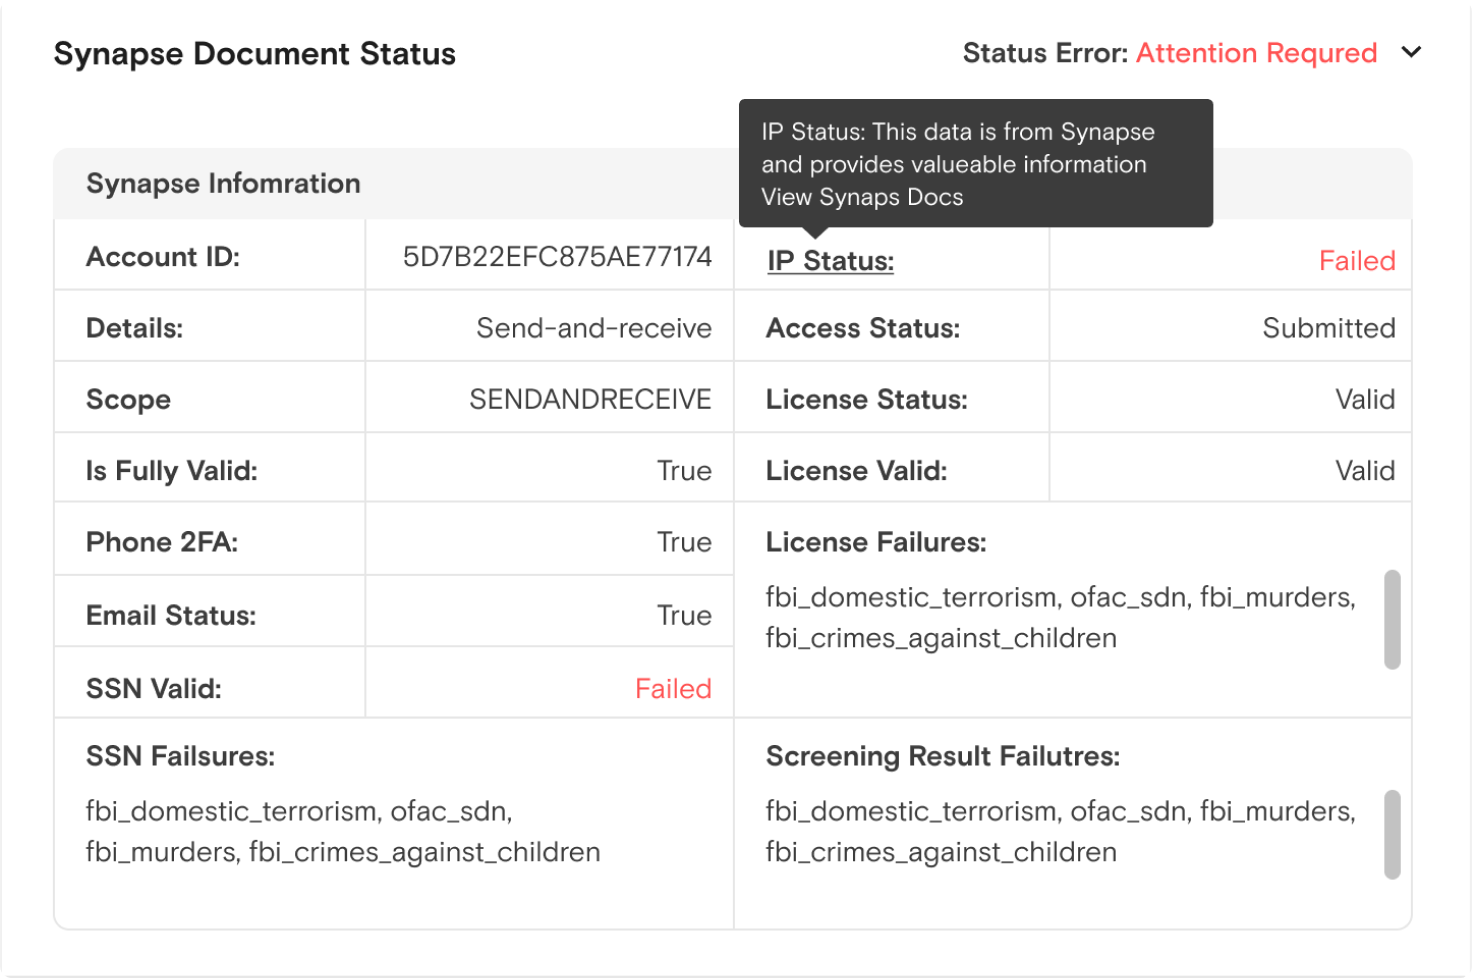
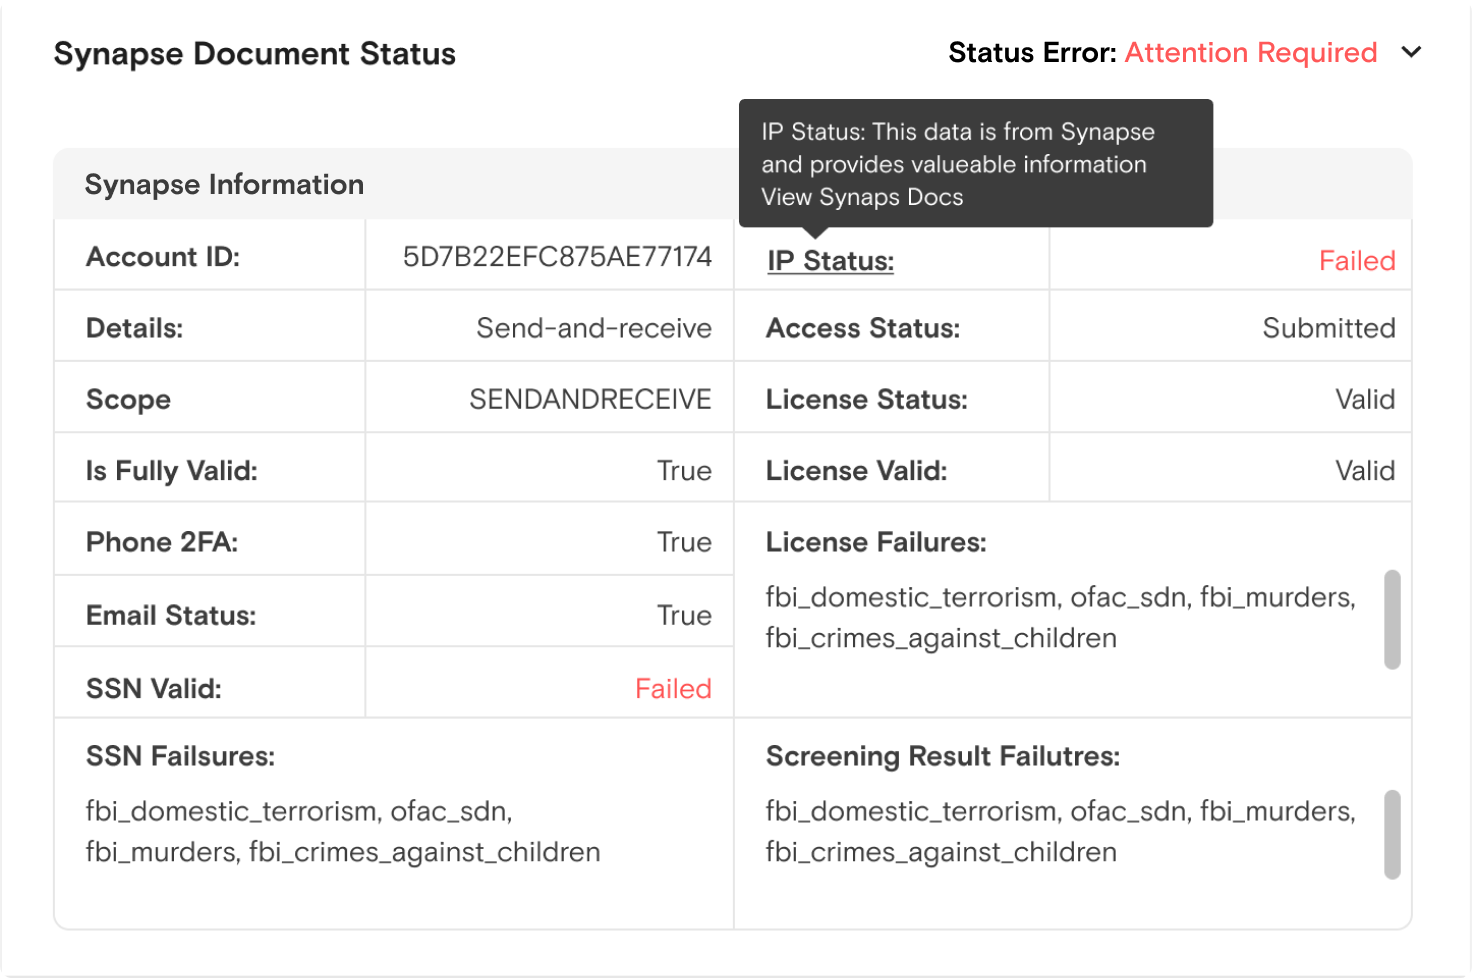
Spelling error fixes

Changed region(s): [[0.625, 0.0307, 0.9375, 0.092], [0.0625, 0.184, 0.25, 0.2147]]

diff --git a/themes/ianthedesigner-hugo/layouts/the-gents-guide-to-style/list.html b/themes/ianthedesigner-hugo/layouts/the-gents-guide-to-style/list.html
@@ -32,7 +32,7 @@
   <div class="container">
     <!-- Case Study Meta Data -->
     <div class="cs-meta-container">
-      <div class="meta-item">
+      <div class="meta-item col-xs-6 col-md-4 col-lg-12">
         <div class="label">
           Client
         </div>
@@ -41,7 +41,7 @@
         </div>
       </div>
 
-      <div class="meta-item">
+      <div class="meta-item col-xs-6 col-md-4 col-lg-12">
         <div class="label">
           Industry
         </div>
@@ -50,7 +50,7 @@
         </div>
       </div>
 
-      <div class="meta-item">
+      <div class="meta-item col-xs-6 col-md-4 col-lg-12">
         <div class="label">
           Project Type
         </div>
@@ -59,7 +59,7 @@
         </div>
       </div>
 
-      <div class="meta-item">
+      <div class="meta-item col-xs-6 col-md-4 col-lg-12">
         <div class="label">
           Responsabilities
         </div>
@@ -73,7 +73,7 @@
         </div>
       </div>
 
-      <div class="meta-item">
+      <div class="meta-item col-xs-6 col-md-4 col-lg-12">
         <div class="label">
           Deliverables
         </div>
@@ -84,7 +84,7 @@
         </div>
       </div>
 
-      <div class="meta-item">
+      <div class="meta-item col-xs-6 col-md-4 col-lg-12">
         <div class="label">
           Team
         </div>
@@ -94,7 +94,7 @@
         </div>
       </div>
 
-      <div class="meta-item mt-64">
+      <div class="meta-item mt-64 ">
         <a class="button" href="../pdf/ian-donahue_capstone-paper.pdf" target="_blank">
           Download Process
         </a>
@@ -118,7 +118,7 @@
 
           <div class="row mb-48 mt-48">
             <div class="col-md-12">
-              <img src="../images/portfolio/gents-guide/gents_guide_to_style_iMac-2.jpg" alt="">
+              <img src="../images/portfolio/gents-guide/gents_guide_to_style_iMac-2.jpg" alt="" width="100%">
             </div>
           </div>
 
@@ -190,32 +190,32 @@
 
     <div class="row">
       <div class="col-md-12 col-lg-7 col-xl-6">
-        <video width="540" height="700" controls poster="../images/portfolio/gents-guide/video/gents-video-placeholder.png">
+        <video width="100%" height="700" controls poster="../images/portfolio/gents-guide/video/gents-video-placeholder.png">
           <source src="../images/portfolio/gents-guide/video/ian-donahue-gents-guide-to-style.mp4" type="video/mp4">
             Your browser does not support the video tag.
         </video>
       </div>
-      <div class="col-md-12 col-lg-5 col-xl-6">
+      <div class="thumbnails  col-md-12  col-lg-5  col-xl-6">
         <div class="row">
-          <div class="col-sm-12 col-md-4 col-lg-4">
+          <div class="thumnail-item  col-sm-12  col-md-4  col-lg-4">
             <img class="" src="../images/portfolio/gents-guide/screens/guidechoice_01.jpg" alt="" style="width: 100%; max-width: 1000px;">
           </div>
-          <div class="col-sm-12 col-md-4 col-lg-4">
+          <div class="thumnail-item  col-sm-12  col-md-4  col-lg-4">
             <img class="" src="../images/portfolio/gents-guide/screens/guidechoice_03.jpg" alt="" style="width: 100%; max-width: 1000px;">
           </div>
-          <div class="col-sm-12 col-md-4 col-lg-4">
+          <div class="thumnail-item  col-sm-12  col-md-4  col-lg-4">
             <img class="" src="../images/portfolio/gents-guide/screens/guide_01.jpg" alt="wer" style="width: 100%; max-width: 1000px;">
           </div>
 
         </div>
         <div class="row mt-16">
-          <div class="col-sm-12 col-md-6 col-lg-4">
+          <div class="thumnail-item  col-sm-12  col-md-6  col-lg-4">
             <img class="" src="../images/portfolio/gents-guide/screens/guide_07.jpg" alt="" style="width: 100%; max-width: 1000px;">
           </div>
-          <div class="col-sm-12 col-md-6 col-lg-4">
+          <div class="thumnail-item  col-sm-12  col-md-6  col-lg-4">
             <img class="" src="../images/portfolio/gents-guide/screens/guide_10.jpg" alt="" style="width: 100%; max-width: 1000px;">
           </div>
-          <div class="col-sm-12 col-md-6 col-lg-4">
+          <div class="thumnail-item  col-sm-12  col-md-6  col-lg-4">
             <img class="" src="../images/portfolio/gents-guide/screens/guide_12.jpg" alt="" style="width: 100%; max-width: 1000px;">
           </div>
         </div>

diff --git a/themes/ianthedesigner-hugo/layouts/dave-customer-success-workspace/list.html b/themes/ianthedesigner-hugo/layouts/dave-customer-success-workspace/list.html
@@ -210,7 +210,7 @@
       <div class="col-md-12 col-lg-6 align-self-center">
         <h4 class="text-center">Side Nav</h4>
         <p class="text-center">
-          Quick navigation provides faster customer support. Clicking an icon jumps to the appropriate section of the page. Navigation icons can re-organized and the pages content re-organizes to match.
+          Quick navigation provides faster customer support. Clicking an icon jumps to the appropriate section of the page. Navigation icons can be re-organized and the pages content re-organizes to match.
         </p>
       </div>
     </div>
@@ -240,7 +240,7 @@
 
     <div class="row justify-content-md-center">
       <div class="col-md-12 col-lg-6 align-self-center">
-        <h4 class="text-center">Model Designs</h4>
+        <h4 class="text-center">Modal Designs</h4>
         <p class="text-center">
           Modals show less frequently needed, but more detailed information. This include JSON objects, permission controls, warnings, etc. It was a goal to add a bit of “Dave” delight whenever possible.
         </p>

diff --git a/themes/ianthedesigner-hugo/assets/css/style.css b/themes/ianthedesigner-hugo/assets/css/style.css
@@ -224,6 +224,25 @@ a:hover {
 .navigation .navbar .navbar-toggler .navbar-toggler-icon {
   background-image: url("../images/icons/hamburger.png"); }
 
+.hero-social-links {
+  position: relative;
+  padding-left: 0;
+  margin-top: 1rem;
+  margin-left: 3rem;
+  display: inline-block;
+  list-style: none;
+  z-index: 1; }
+  .hero-social-links li::before {
+    content: ""; }
+
+@media (max-width: 445px) {
+  .hero-social-links {
+    display: flex;
+    flex-direction: row;
+    justify-content: space-between;
+    margin-left: 0;
+    padding-left: 15px;
+    padding-right: 15px; } }
 b {
   color: #143757;
   font-weight: 600; }
@@ -1429,6 +1448,14 @@ textarea.form-control {
   .hero-area {
     padding: 200px 0 150px;
     overflow: hidden; } }
+@media (max-width: 445px) {
+  .hero-area {
+    padding-top: 150px;
+    padding-bottom: 0; }
+    .hero-area .container {
+      padding-bottom: 150px; }
+      .hero-area .container h3 {
+        font-size: 24px; } }
 .hero-area h1 {
   position: relative;
   z-index: 1; }

diff --git a/themes/ianthedesigner-hugo/assets/css/scss/_base.scss b/themes/ianthedesigner-hugo/assets/css/scss/_base.scss
@@ -288,3 +288,30 @@ a:hover { color: var(--primary-color) }
 }
 
 // /Navbar
+
+
+
+
+.hero-social-links  {
+  position: relative;
+  padding-left: 0;
+  margin-top: 1rem;
+  margin-left: 3rem;
+  display: inline-block;
+  list-style: none;
+  z-index: 1;
+  li::before {
+    content: "";
+  }
+}
+
+@media(max-width: 445px) {
+  .hero-social-links {
+    display: flex;
+    flex-direction: row;
+    justify-content: space-between;
+    margin-left: 0;
+    padding-left: 15px;
+    padding-right: 15px;
+  }
+}

diff --git a/themes/ianthedesigner-hugo/layouts/index.html b/themes/ianthedesigner-hugo/layouts/index.html
@@ -35,7 +35,7 @@
       <img src="{{`images/mao-photo/mao-6.png` | relURL}}" alt="bg-shape" width="300px" class="shadow">
     </div>
     <!-- social icon -->
-    <ul class="list-unstyled inline-block ml-5 mt-3 position-relative zindex-1">
+    <ul class="hero-social-links">
       {{ range .Site.Params.social }}
       <li class="mb-3"><a class="text-white" href="{{.URL | safeURL }}"><i class="{{.icon}}"></i></a></li>
       {{ end }}

diff --git a/themes/ianthedesigner-hugo/layouts/about/list.html b/themes/ianthedesigner-hugo/layouts/about/list.html
@@ -34,7 +34,7 @@
     <img src="{{`images/mao-photo/mao-6.png` | relURL}}" alt="bg-shape" width="300px" class="shadow">
   </div>
   <!-- social icon -->
-  <ul class="inline-block list-unstyled ml-5 mt-3 position-relative zindex-1">
+  <ul class="hero-social-links">
     {{ range .Site.Params.social }}
     <li class="mb-3"><a class="text-white" href="{{.URL | safeURL }}"><i class="{{.icon}}"></i></a></li>
     {{ end }}

diff --git a/themes/ianthedesigner-hugo/assets/css/style.scss b/themes/ianthedesigner-hugo/assets/css/style.scss
@@ -275,6 +275,19 @@ textarea.form-control { height: 120px }
   }
 }
 
+@media(max-width: 445px) {
+  .hero-area {
+    padding-top: 150px;
+    padding-bottom: 0;
+    .container {
+      padding-bottom: 150px;
+      h3 {
+        font-size: 24px;
+      }
+    }
+  }
+}
+
 .hero-area h1 {
   position: relative;
   z-index: 1;

diff --git a/themes/ianthedesigner-hugo/layouts/ubermedia-vista-measurement/list.html b/themes/ianthedesigner-hugo/layouts/ubermedia-vista-measurement/list.html
@@ -177,7 +177,7 @@
 
   <div class="row justify-content-md-center">
     <div class="col-md-12 col-lg-6 align-self-center">
-      <h3 class="text-center">User Dagram Flows</h3>
+      <h3 class="text-center">User Diagram Flows</h3>
     </div>
   </div>
 
